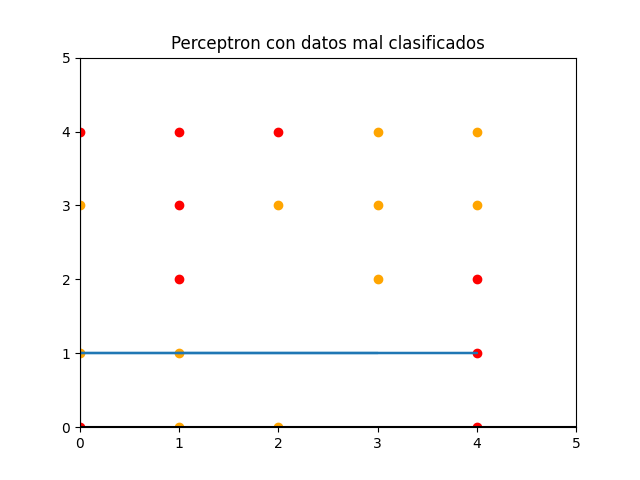
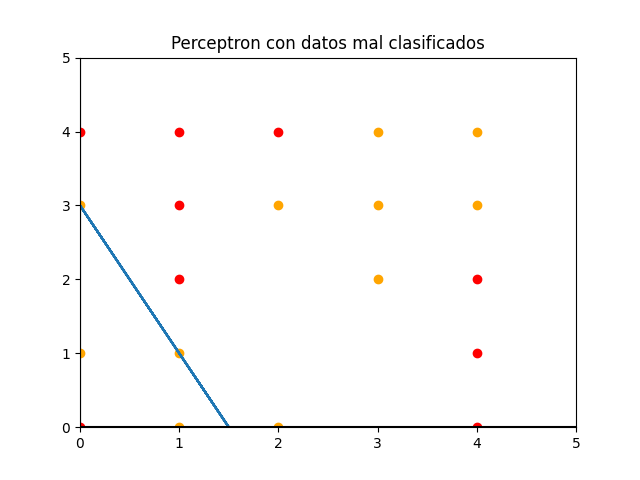
Perceptron fixeado

diff --git a/perceptron.py b/perceptron.py
@@ -1,37 +1,50 @@
+import random
 import numpy as np
 class Perceptron():
-    def __init__(self, eta=0.1, itr=1000):
+    def __init__(self, eta=0.1, itr=20000):
         self.eta = eta
         self.itr = itr
         
         
     def fit(self, X, y):
         #   length del conjunto de entrenamiento
-        X_len = len(X[0])
+        _len = len(X[0])
         #   creamos una lista de w con w0 incluido ej: w = [0, 0, 0] -> [w0, w1, w2]
-        w = list(np.zeros(X_len))
+        w = list(np.zeros(_len))
         # delta w
-        _w = 0.0
+        _w = []
         error = 1
-        j = 0
-        while(error>0 and j < self.itr ):
-            for i in range(len(X)):
-                o = self.calculate(X[i], w)
-                error = y[i]-o
+        i = 0
+        while(error > 0 and i < self.itr ):
+                random_index = random.randint(0, len(X)-1)
+                X_random =X[random_index]
+                Y_random =y[random_index]
+                o = self.calculate_o(X_random, w)
+                
                 # Calculamos delta w -> (etha * error) * [w0, w1, w2]
-                etha_error = self.eta * error
-                _w = [el * etha_error for i,el in enumerate(X[i])]
+                etha_error = self.eta * (Y_random-o)
+                _w = [el * etha_error for i,el in enumerate(X_random)]
                 # Calculamos el nuevo w -> w = [1, 1, 2] _w = [1, 3, 2]  w + _w = [2, 4, 6]
                 w = [el + _w[i] for i,el in enumerate(w)]
-            j=+j
+                error = self.calculate_error(X,y,w)
+                i +=1
+                print("i", i)
     
         return w
                 
        
-    def calculate(self, X,w):
+    def calculate_o(self, X,w):
        
         # Calculamos h -> sumatoria wi * xi
         h = sum([(w[i] * x) for i, x in enumerate(X)])
         # Calculamos o
-        o = 1 if h >0 else -1
+        o = 1 if h >= 0 else -1
         return o
+    
+    def calculate_error(self,X,y, w):
+        error = 0
+        for i in range(len(X)):
+            h = sum([(w[i] * x) for i, x in enumerate(X[i])])
+            o = 1 if h >=0 else -1
+            error += abs(y[i] - o)
+        return error

diff --git a/main.py b/main.py
@@ -281,7 +281,7 @@ def make_img(image, clf):
     cv.waitKey(0)
 
 
-make_img(cow_1,clflinear)
+#make_img(cow_1,clflinear)
 # make_img(cow_1,clfpoly)
 # make_img(cow_1,clfrbf)
 cow_test = cv.imread("cow-test-2.jpg")
